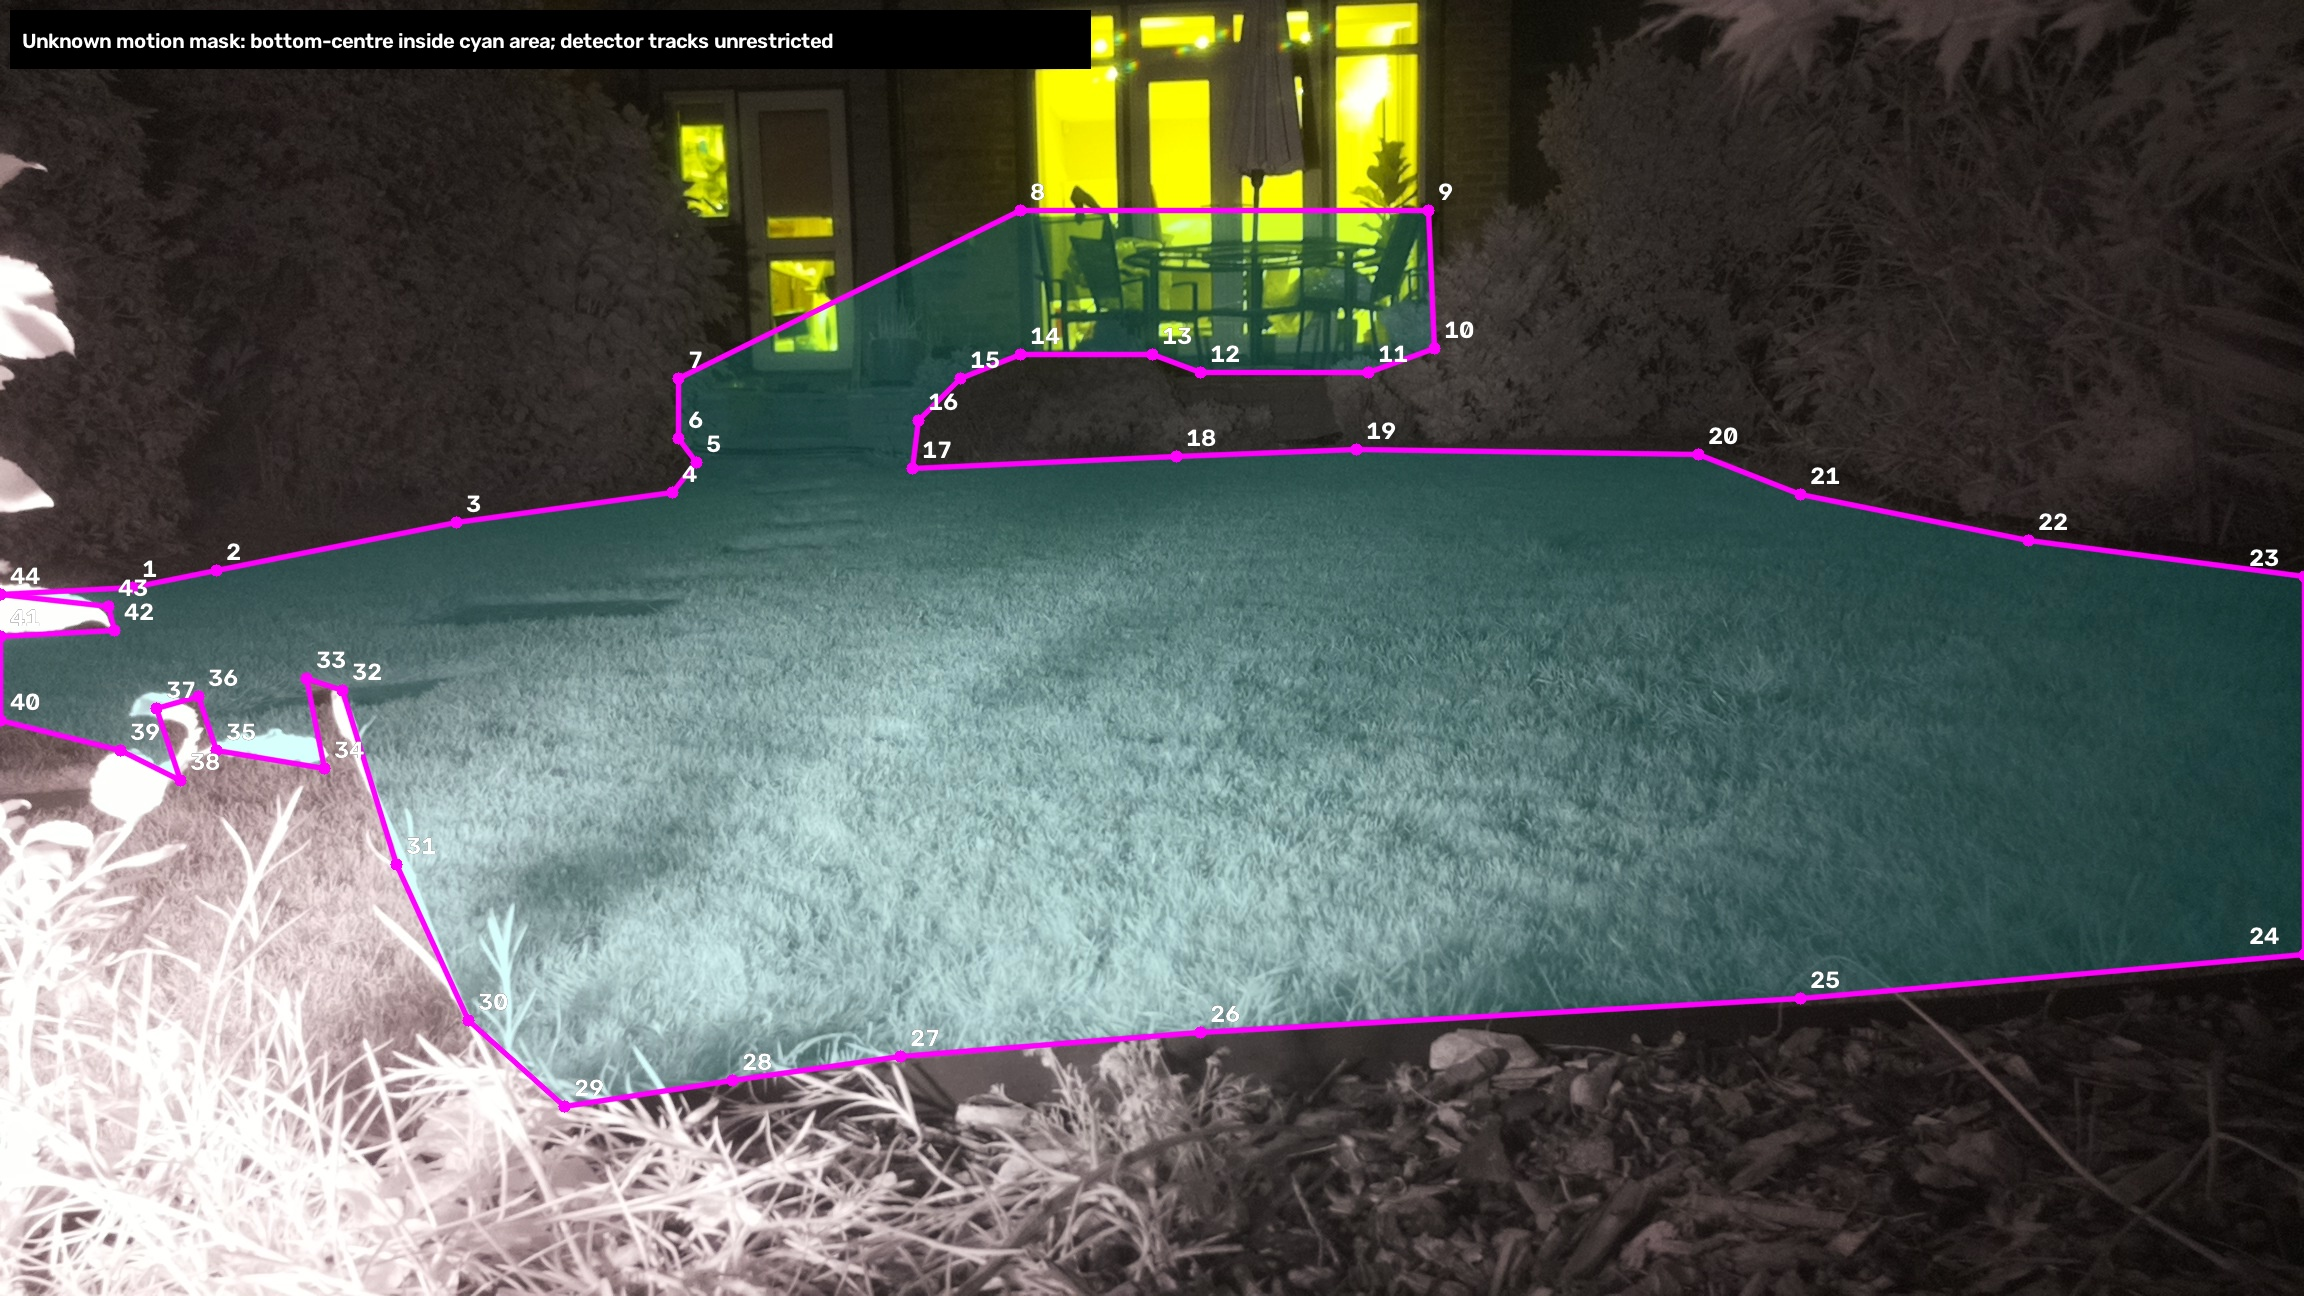
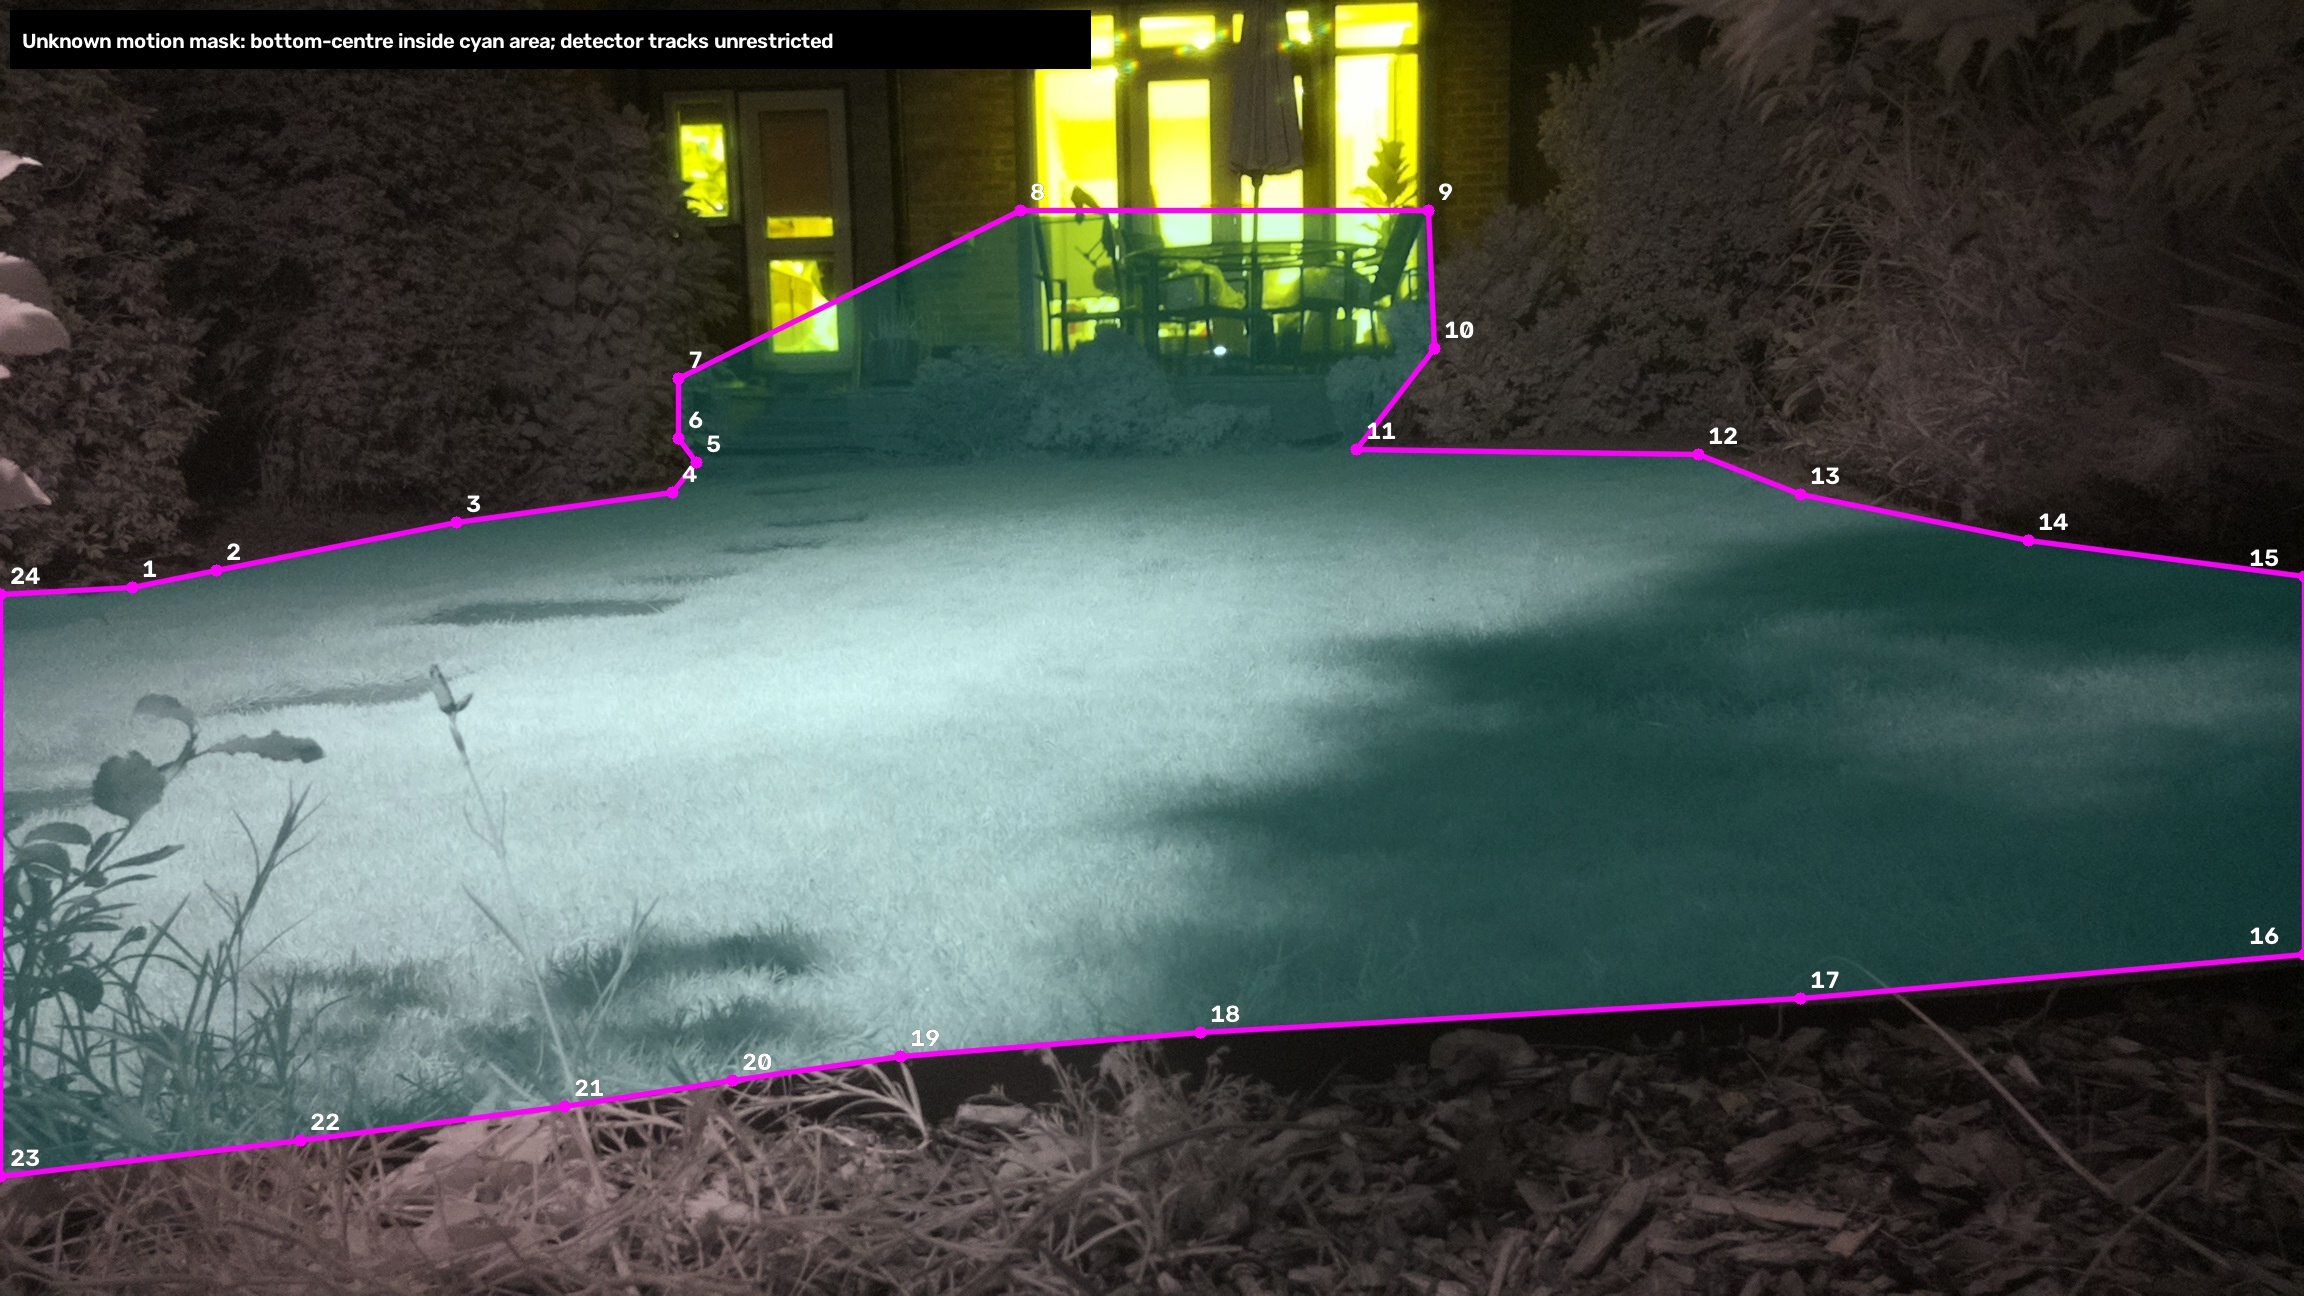
Align mask checks and documentation with the supplied lawn and patio polygon
Commit the operator-supplied polygon and overlays unchanged, including the near-left corner through (470,922), (250,950), (0,980) and (0,495). Update test expectations and mask description. Include the pending renderer change to use the moved-flood night still. Original overlays 08/09 remain unchanged.

Validation: initial mask check had 5 failures; final pytest 131 passed in 1.82s. Offline pipeline PASS, 46.1 s per clip minute (ratio 0.77). MODEL_DIR=models tests/check_video.py PASS, with expected truncated-input warning. SHA-256 checks confirm supplied JSON and overlays 11/12 were not modified during this task. No deployment.

diff --git a/tests/test_lawn_mask.py b/tests/test_lawn_mask.py
@@ -1,4 +1,4 @@
-"""Include patio routes while excluding foreground plant silhouettes."""
+"""Check the operator-supplied lawn, steps, patio and table mask."""
 from pathlib import Path
 
 import cv2
@@ -9,19 +9,23 @@ from foxcam.ground import load_calibration
 
 
 @pytest.mark.parametrize("point,inside", [
-    ((86 * 5 / 6, 792 * 5 / 6), False), # Survey 8: foreground leaf overlaps this stone.
-    ((200, 700), False),                 # Foreground stems silhouetted over lawn.
-    ((350, 850), False),
+    ((86 * 5 / 6, 792 * 5 / 6), True),  # Near stepping stone.
+    ((200, 700), True),                 # Near-left lawn beneath unlit stems.
+    ((350, 850), True),
     ((500, 900), True),                 # Lawn immediately above the metal edging.
     ((40, 540), True),                  # Left grass edge beneath the bed.
     ((100, 300), False),                # Left bed/shrub.
-    ((960, 200), True),                 # Table rectangle retained by operator.
+    ((960, 200), True),                 # Table and chairs.
     ((620, 350), True),                 # Patio steps.
-    ((1050, 280), True),                # Door glazing accepted by operator.
-    ((750, 250), True),                 # New direct edge from former vertex 7 to 11.
-    ((700, 320), True),                 # Patio area by the steps, away from glass.
+    ((1050, 280), True),                # Patio/table area at the door rail.
+    ((750, 250), True),                 # Patio approach included by the operator.
+    ((700, 320), True),                 # Patio by the steps.
     ((620, 390), True),                 # In front of the steps.
-    ((820, 350), False),                # Shrub in front of patio.
+    ((820, 350), True),                 # Front of patio inside the supplied outline.
+    ((1300, 300), False),               # Shrubs beside the patio.
+    ((100, 900), True),                 # Near-left lawn down to the corner.
+    ((0, 980), True),                   # Corner on the inclusive boundary.
+    ((100, 975), False),                # Below the corner-to-edging segment.
     ((1850, 350), False),               # Right bed/shrub.
     ((1200, 1000), False),              # Foreground mulch.
     ((100, 1050), False),               # Near-left side of edging, in the bed.

diff --git a/tests/render_motion_mask.py b/tests/render_motion_mask.py
@@ -9,7 +9,7 @@ import numpy as np
 root = Path(__file__).resolve().parents[1]
 calibration = json.loads((root / "vps/ground-calibration.json").read_text())
 for source, target in (("lawn-still-2304.jpg", "11-motion-mask-day.jpg"),
-                       ("lawn-night-flood-2304.jpg", "12-motion-mask-night.jpg")):
+                       ("lawn-night-flood-moved-2304.jpg", "12-motion-mask-night.jpg")):
     image = cv2.imread(str(root / ".research" / source))
     if image is None:
         raise FileNotFoundError(source)

diff --git a/docs/calibration.md b/docs/calibration.md
@@ -93,14 +93,9 @@ Camera stills at 2304x1296 with the recorder's settings, and phone photos of the
 ## Lawn and patio motion mask
 
 `motion_polygon` in `vps/ground-calibration.json` uses 1920×1080 recording
-coordinates. It covers the lawn and stepping stones, the steps up to the
-patio, and the area around the table and chairs. The table rectangle is
-retained. Former vertices 8, 9 and 10 were removed, connecting former vertex
-7 directly to 11; the current overlays renumber the remaining vertices.
-Some door glazing is intentionally included, as accepted by the operator.
-Detector tracks remain unrestricted. Beds, shrubs, mulch and
-foreground plant silhouettes are excluded, including plants projecting over
-the near-left grass. The foreground outline is conservative around stems.
+coordinates. It covers the lawn, steps, patio and table area, with the
+near-left corner inside and straight boundary segments through (470,922),
+(250,950), (0,980) and (0,495).
 
 Only unknown motion blobs are filtered by their box bottom-centre; detector
 tracks remain unrestricted. The polygon scales with full-field recordings.
@@ -115,7 +110,9 @@ The original lawn-only overlays are preserved byte-for-byte from `b77ad4b`:
 - [Original night mask, 09](calibration/09-motion-mask-night.jpg)
 
 Current numbered vertices correspond to JSON order; still coordinates are
-recording coordinates multiplied by 6/5:
+recording coordinates multiplied by 6/5. The day source remains
+`.research/lawn-still-2304.jpg`; the night source is now
+`.research/lawn-night-flood-moved-2304.jpg`, showing the relocated flood:
 
 - [Current lawn/patio day mask, 11](calibration/11-motion-mask-day.jpg)
 - [Current lawn/patio night mask, 12](calibration/12-motion-mask-night.jpg)
